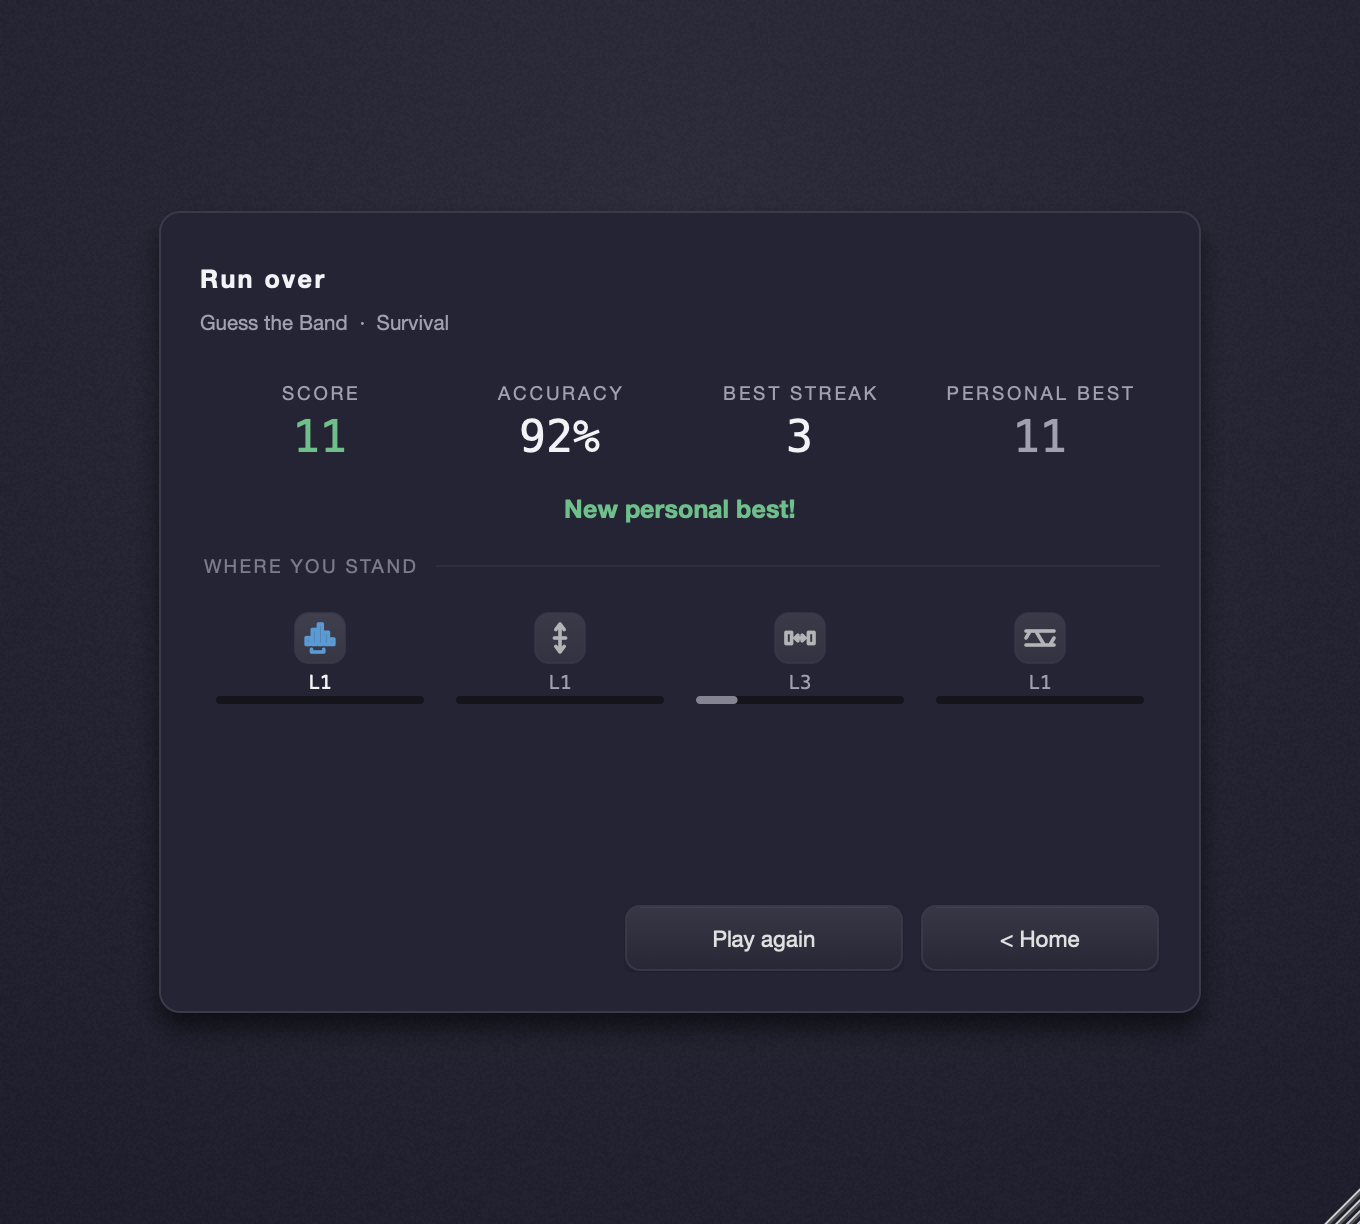
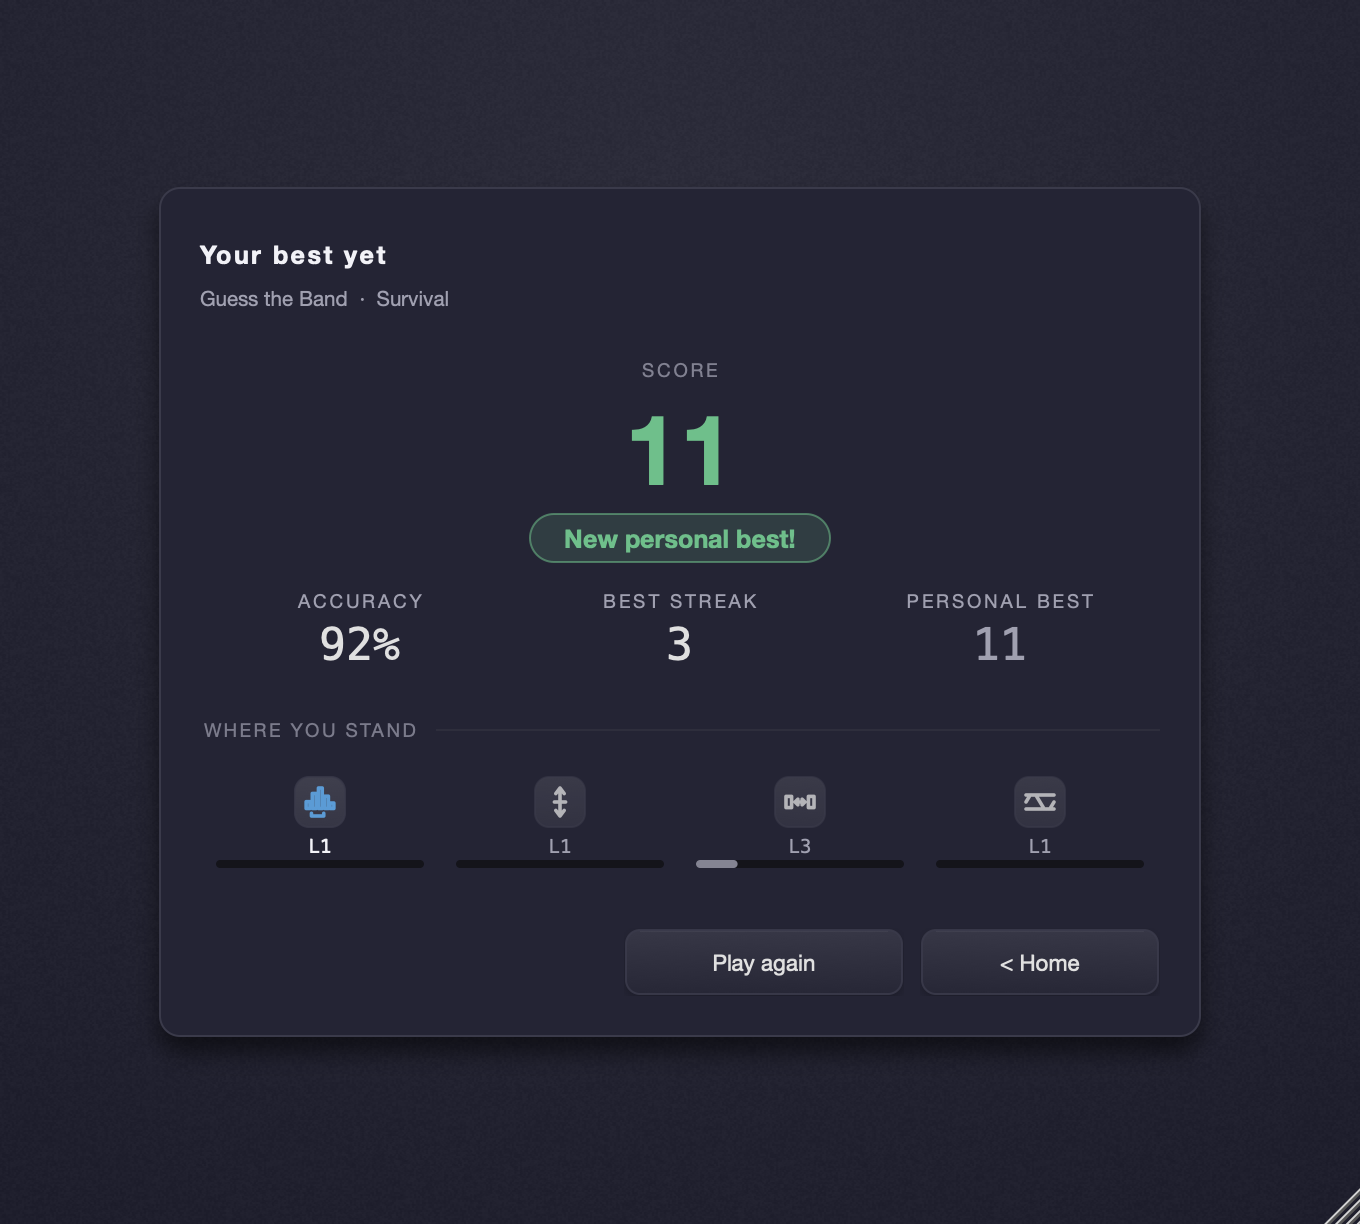
A timed mode you can leave, and a results screen worth looking at
Starting Survival or Blitz hid all three mode pills. The only ways out
were a 74px "End run" among six other controls and "< Home", which leaves
the exercise entirely - so the mode read as something you were stuck in,
and that is how it was reported.

The pills were hidden because the lives/clock readout took their slot.
That was the wrong trade: the pills are navigation and should never
disappear, while lives and a clock are status and belong beside the
question. The HUD moves up into the exercise row, into the space the level
readout uses the rest of the time - and during a run "two lives left"
genuinely outranks "how far to the next level". The pills now sit in the
same place whether a run is live or not, so nothing in that row moves when
one starts or ends. "End run" takes the session tally's slot, which is
empty during a run anyway.

Switching mode mid-run silently threw the run away: setMode calls
startRun and nothing fires onRunEnded. Invisible while the pills were
hidden; now that they are the way out, a Blitz score would have just
evaporated. It says so in a toast - deliberately not the results screen,
because pressing "Practice" is a request to leave, not a request to be
shown a scoreboard. "End run" is still what gets you the full results.

The results screen had about a hundred and thirty pixels of nothing
between the skills row and the buttons, because the card was a fixed 400
tall and its content was not. Its height follows the content now.
[…]

diff --git a/Source/RunResultsComponent.cpp b/Source/RunResultsComponent.cpp
@@ -94,8 +94,20 @@ void RunResultsComponent::timerCallback()
 
 juce::Rectangle<int> RunResultsComponent::cardBounds() const
 {
+    // Height follows the content. It was a flat 400, which left about a
+    // hundred and thirty pixels of nothing between the skills row and the
+    // buttons - a card mostly made of gap, which is what a results screen
+    // must never be: this is the one moment the player is looking *at*
+    // rather than through.
+    using namespace AbcTrainTheme;
+    constexpr int contentHeight = 20 + 26 + 18 + Spacing::large
+                                    + 14 + 64 + 26 + Spacing::medium
+                                    + 44 + Spacing::large
+                                    + 22 + Spacing::small + 56
+                                    + Spacing::large + 34 + 20;
+
     return juce::Rectangle<int> (juce::jmin (getWidth() - 40, 520),
-                                  juce::jmin (getHeight() - 40, 400))
+                                  juce::jmin (getHeight() - 40, contentHeight))
                .withCentre (getLocalBounds().getCentre());
 }
 
@@ -153,39 +165,50 @@ void RunResultsComponent::paint (juce::Graphics& g)
 
     inner.removeFromTop (AbcTrainTheme::Spacing::large);
 
-    // --- the four numbers -------------------------------------------------
     const auto counted = AbcTrainTheme::Ease::out (countAmount);
 
+    // --- the number the run was about ------------------------------------
+    //
+    // Four numbers at one size is a table, and a table is what you read
+    // when you are looking something up - not what you want at the end of
+    // ninety seconds of concentrating. The score is the thing that just
+    // happened; accuracy, streak and personal best are how to read it.
+    // So one of them is large and three are small, which is the whole
+    // difference between a result and a receipt.
     {
-        auto row = inner.removeFromTop (46);
-        const auto columnWidth = row.getWidth() / 4;
+        AbcTrainLookAndFeel::drawTrackedText (g, scoreCaption.toUpperCase(),
+                                               inner.removeFromTop (14).toFloat(),
+                                               AbcTrainLookAndFeel::captionFont(),
+                                               theme.textDim.withAlpha (0.75f), 1.4f,
+                                               juce::Justification::centred);
 
-        paintStat (g, row.removeFromLeft (columnWidth), scoreCaption,
-                    juce::String (juce::roundToInt ((float) summary.score * counted)),
-                    summary.isNewBest ? theme.positive : theme.textBright);
+        auto heroRow = inner.removeFromTop (64);
 
-        paintStat (g, row.removeFromLeft (columnWidth), accuracyCaption,
-                    juce::String (juce::roundToInt (summary.runAccuracy * 100.0f * counted)) + "%",
-                    theme.textBright);
-
-        paintStat (g, row.removeFromLeft (columnWidth), streakCaption,
-                    juce::String (juce::roundToInt ((float) summary.bestStreakThisRun * counted)),
-                    theme.textBright);
-
-        paintStat (g, row, bestCaption,
-                    juce::String (juce::jmax (summary.previousBest, summary.score)),
-                    theme.textDim);
+        g.setColour (summary.isNewBest ? theme.positive : theme.textBright);
+        g.setFont (AbcTrainLookAndFeel::displayFont().withHeight (
+            58.0f * AbcTrainLookAndFeel::getTextScale()));
+        g.drawText (juce::String (juce::roundToInt ((float) summary.score * counted)),
+                     heroRow, juce::Justification::centred, false);
     }
 
-    inner.removeFromTop (AbcTrainTheme::Spacing::small);
-
-    // A personal best is an event, so it gets a line of its own rather
-    // than being left for the player to work out by comparing two numbers.
+    // A personal best is the one thing here worth a moment. It gets a
+    // pill rather than a line of green text, because a sentence in the
+    // middle of a column of numbers reads as another number.
     if (summary.isNewBest)
     {
+        auto badgeRow = inner.removeFromTop (26);
+        const auto textWidth = AbcTrainLookAndFeel::trackedTextWidth (
+            newBestText, AbcTrainLookAndFeel::headingFont(), 0.0f);
+        auto pill = badgeRow.withSizeKeepingCentre (juce::roundToInt (textWidth) + 34, 24).toFloat();
+
+        g.setColour (theme.positive.withAlpha (0.16f));
+        g.fillRoundedRectangle (pill, pill.getHeight() * 0.5f);
+        g.setColour (theme.positive.withAlpha (0.55f));
+        g.drawRoundedRectangle (pill, pill.getHeight() * 0.5f, 1.0f);
+
         g.setColour (theme.positive);
         g.setFont (AbcTrainLookAndFeel::headingFont());
-        g.drawText (newBestText, inner.removeFromTop (20), juce::Justification::centred, false);
+        g.drawText (newBestText, pill.toNearestInt(), juce::Justification::centred, false);
     }
     else
     {
@@ -193,10 +216,30 @@ void RunResultsComponent::paint (juce::Graphics& g)
         g.setFont (AbcTrainLookAndFeel::captionFont());
         g.drawText (accuracyCaption + ": " + juce::String (juce::roundToInt (summary.lifetimeAccuracy * 100.0f))
                         + "%  (" + juce::String (summary.rounds) + ")",
-                     inner.removeFromTop (20), juce::Justification::centred, false);
+                     inner.removeFromTop (26), juce::Justification::centred, false);
     }
 
     inner.removeFromTop (AbcTrainTheme::Spacing::medium);
+
+    // --- the three that put it in context ---------------------------------
+    {
+        auto row = inner.removeFromTop (44);
+        const auto columnWidth = row.getWidth() / 3;
+
+        paintStat (g, row.removeFromLeft (columnWidth), accuracyCaption,
+                    juce::String (juce::roundToInt (summary.runAccuracy * 100.0f * counted)) + "%",
+                    theme.text);
+
+        paintStat (g, row.removeFromLeft (columnWidth), streakCaption,
+                    juce::String (juce::roundToInt ((float) summary.bestStreakThisRun * counted)),
+                    theme.text);
+
+        paintStat (g, row, bestCaption,
+                    juce::String (juce::jmax (summary.previousBest, summary.score)),
+                    theme.textDim);
+    }
+
+    inner.removeFromTop (AbcTrainTheme::Spacing::large);
 
     // --- where the four skills stand -------------------------------------
     AbcTrainLookAndFeel::paintSectionHeading (g, inner.removeFromTop (22).toFloat(), whereYouStandText);
@@ -249,10 +292,23 @@ void RunResultsComponent::resized()
     // The other modes sit on the left of the same row, so "again" and
     // "differently" are the same distance from the eye - a run ending is
     // the moment somebody is most willing to change how they play.
-    for (auto* button : modeButtons)
+    //
+    // Width comes from what is left rather than being written down as 128:
+    // two mode buttons at 128 plus a gap need 272px against the ~204 this
+    // row actually has once "Play again" and "Home" have taken their side,
+    // so they used to run underneath them.
+    if (! modeButtons.isEmpty())
     {
-        button->setBounds (footer.removeFromLeft (128).withHeight (34));
-        footer.removeFromLeft (Spacing::small);
+        const auto gaps = Spacing::small * (modeButtons.size() - 1);
+        const auto width = juce::jlimit (72, 128,
+                                          (footer.getWidth() - Spacing::medium - gaps)
+                                              / modeButtons.size());
+
+        for (auto* button : modeButtons)
+        {
+            button->setBounds (footer.removeFromLeft (width).withHeight (34));
+            footer.removeFromLeft (Spacing::small);
+        }
     }
 }
 

diff --git a/Source/PluginEditor.cpp b/Source/PluginEditor.cpp
@@ -1091,7 +1091,24 @@ void EarTrainerEditor::resized()
         gameRow.removeFromLeft (Spacing::small);
         instructionsButton.setBounds (gameRow.removeFromRight (24).withSizeKeepingCentre (22, 22));
         gameRow.removeFromRight (Spacing::tight);
-        levelProgressLabel.setBounds (gameRow.removeFromRight (210));
+
+        // Lives and the clock live up here during a run, in the slot the
+        // level readout uses the rest of the time.
+        //
+        // They used to sit in the control row *instead of* the mode pills,
+        // which is what made a run feel like a trap: start Survival and the
+        // three buttons you arrived by vanish, leaving one 74px "End run"
+        // among six other controls. Status belongs beside the question;
+        // the pills are navigation and should never disappear. And during
+        // a run "how many lives are left" genuinely outranks "how far to
+        // the next level".
+        {
+            auto slot = gameRow.removeFromRight (210);
+            const auto running = isRunHudActive();
+            runHud.setBounds (running ? slot.withSizeKeepingCentre (210, 30) : juce::Rectangle<int>());
+            levelProgressLabel.setBounds (running ? juce::Rectangle<int>() : slot);
+        }
+
         currentGameLabel.setBounds (gameRow);
 
         inner.removeFromTop (Spacing::small);
@@ -1224,31 +1241,22 @@ void EarTrainerEditor::resized()
             const auto pillWidth = 62;
             const auto modesSlotWidth = pillWidth * 3 + Spacing::medium + 92;
 
-            if (isRunHudActive())
+            // The pills are laid out identically whether a run is live or
+            // not, so nothing in this row moves when one starts or ends.
+            for (auto* pill : { &practiceButton, &survivalButton, &blitzButton })
+                pill->setBounds (controlRow.removeFromLeft (pillWidth)
+                                     .withSizeKeepingCentre (pillWidth, 28));
+
+            controlRow.removeFromLeft (Spacing::medium);
+
+            // One 92px slot, two tenants: the session tally when nothing is
+            // running, the way out while something is.
             {
-                // The HUD takes exactly the slot the pills + session score
-                // vacate, so A/B never shifts when a run starts or ends -
-                // minus the width of the way out, which shares that slot.
-                constexpr int endWidth = 74;
-
-                endRunButton.setBounds (controlRow.removeFromLeft (endWidth)
-                                            .withSizeKeepingCentre (endWidth, 28));
-                controlRow.removeFromLeft (Spacing::small);
-
-                runHud.setBounds (controlRow.removeFromLeft (modesSlotWidth - endWidth - Spacing::small)
-                                      .withSizeKeepingCentre (modesSlotWidth - endWidth - Spacing::small, 30));
-            }
-            else
-            {
-                for (auto* pill : { &practiceButton, &survivalButton, &blitzButton })
-                    pill->setBounds (controlRow.removeFromLeft (pillWidth)
-                                         .withSizeKeepingCentre (pillWidth, 28));
-
-                // Score and the lives/clock readout ride along with the modes:
-                // they say how *this* run is going, which is the same subject
-                // the pills set.
-                controlRow.removeFromLeft (Spacing::medium);
-                scoreLabel.setBounds (controlRow.removeFromLeft (92));
+                auto slot = controlRow.removeFromLeft (92);
+                const auto running = isRunHudActive();
+                endRunButton.setBounds (running ? slot.withSizeKeepingCentre (86, 28)
+                                                : juce::Rectangle<int>());
+                scoreLabel.setBounds (running ? juce::Rectangle<int>() : slot);
             }
 
             // Only reserve width for the lives/clock readout when there is
@@ -1423,7 +1431,11 @@ void EarTrainerEditor::showRunResults (int finalScore)
         summary.skills.push_back (std::move (standing));
     }
 
-    runResults.setStrings (localisation.getText ("ui.runResults"),
+    // "Run over" is the right heading for a run that ran out, and the wrong
+    // one for a run that beat everything before it. Same screen, two
+    // different things to say.
+    runResults.setStrings (localisation.getText (summary.isNewBest ? "ui.runResultsBest"
+                                                                   : "ui.runResults"),
                             localisation.getText ("ui.playAgain"),
                             localisation.getText ("ui.back"),
                             localisation.getText ("ui.score.caption"),
@@ -1598,9 +1610,24 @@ void EarTrainerEditor::modeSelected()
         return;
     }
 
+    // Switching mode while a run is live throws that run away - setMode
+    // calls startRun() and nothing fires onRunEnded. That was invisible
+    // while the pills were hidden mid-run; now that they are the way out,
+    // it has to be said out loud, or a Blitz score just evaporates.
+    //
+    // Deliberately a toast and not the results screen: pressing "Practice"
+    // is a request to leave, not a request to be shown a scoreboard. The
+    // full results are what "End run" is for.
+    const auto abandoned = isRunHudActive() ? session.getRunScore() : -1;
+
     // setMode() starts a fresh run itself, so this is one call, not two.
     // The price changes with the mode, so the button's label must too.
     session.setMode (wanted);
+
+    if (abandoned >= 0)
+        achievementToast.show (localisation.getText ("ui.runAbandonedCaption",
+                                                      { { "score", juce::String (abandoned) } }),
+                                localisation.getText ("ui.runAbandonedTitle"));
 
     beginRunWithCountdown();
 }
@@ -1747,8 +1774,11 @@ void EarTrainerEditor::refreshRunStatus()
         const auto unlocked = processor.getProgressManager()
                                   .areModesUnlockedForGame (processor.getGameManager().getActiveGameIndex());
 
-        practiceButton.setVisible (onTraining && ! hudNow);
+        // Visible throughout, including mid-run. Hiding the way you came in
+        // is what made a timed mode feel like something you were stuck in.
+        practiceButton.setVisible (onTraining);
         scoreLabel.setVisible (onTraining && ! hudNow);
+        levelProgressLabel.setVisible (onTraining && ! hudNow);
 
         // Locked modes are *shown*, dimmed - not hidden.
         //
@@ -1763,7 +1793,7 @@ void EarTrainerEditor::refreshRunStatus()
         // Dimmed and still clickable: pressing one says what earns it.
         for (auto* pill : { &survivalButton, &blitzButton })
         {
-            pill->setVisible (onTraining && ! hudNow);
+            pill->setVisible (onTraining);
             pill->setAlpha (unlocked ? 1.0f : 0.45f);
         }
 
